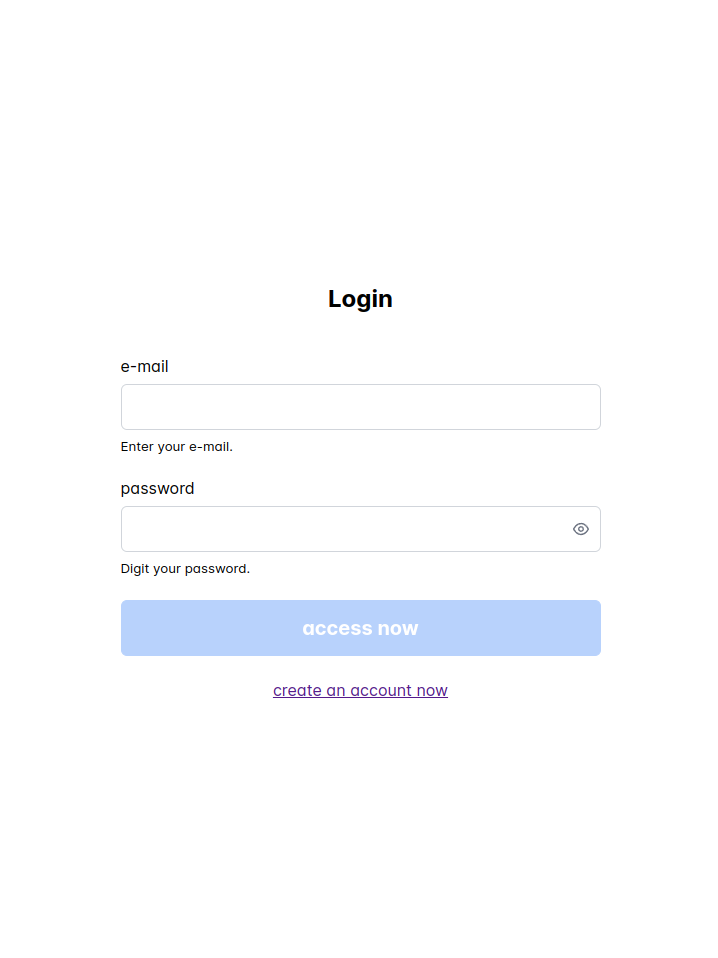
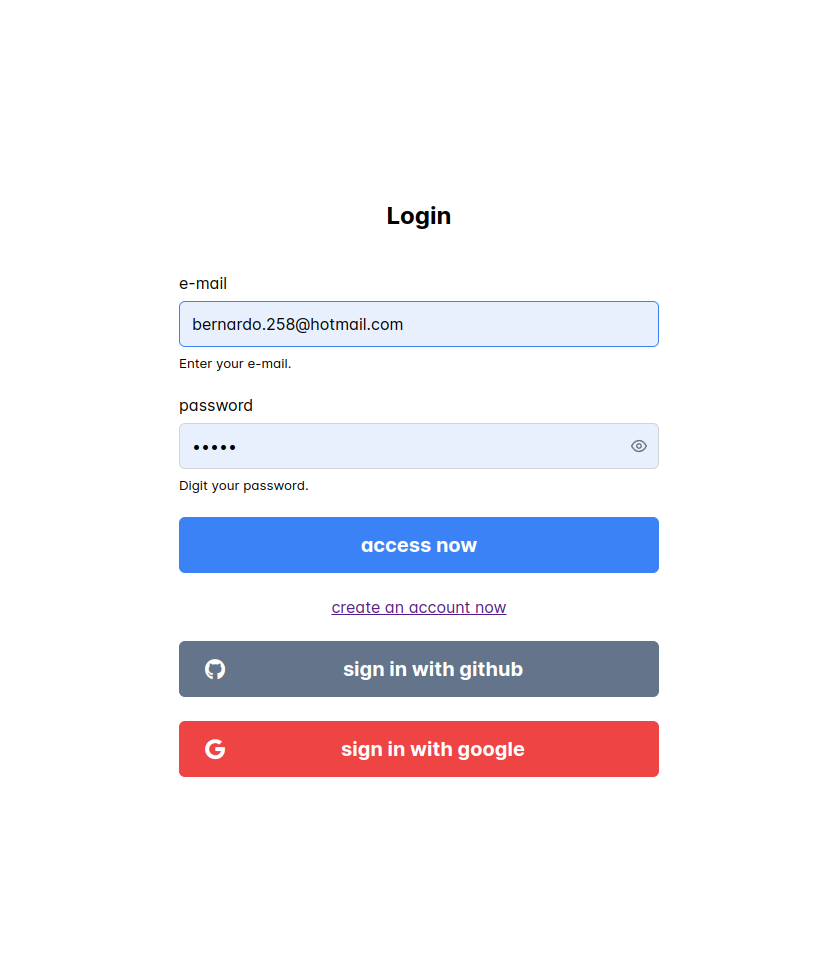
docs: atualizado documentação

diff --git a/README.md b/README.md
@@ -16,6 +16,26 @@ Aplicação foi contruída com o objetivo de construir as seguintes etapas:
 | ![Página de registro do usuário](/src/assets/image.png)                      | ![Página de acesso do usuário](/src/assets/image-1.png) |
 | ![Página interna quando o usuário acessa o sistema](/src/assets/image-2.png) |                                                         |
 
+### SSO (Single Sign-On)
+
+Foi implementado o login via SSO do Google e Github. Onde esse tipo de login utiliza as contas existentes nessas plataformas para realizar login nesta aplicação. O provedor (provider) fornece os dados do usuário, caso o login seja bem sucessedido pelo usuário.
+
+#### Github
+
+O provedor do Github precisa que um aplicativo do tipo OAuth seja criado em uma conta [Github OAuth](https://github.com/settings/applications/new). Para criar o aplicativo, precisa de informações de qual url de retorno da sua aplicação, quando o usuário loga no github, e precisar retornar para esta aplicação. Ao finalizar a criação do aplcativo OAuth será gerar as chaves públicas e privadas para consultar as APIs do Github. No retorno é fornecido parâmetro na url (code=DADDAD) que será necessário para ser enviado para o backend e ele realizar a consulta de informações no nome daquele usuário, além disso, essa consulta no backend pode ser gerado um access_token e refresh_token para o usuário que realizou o login. O papel do front-end é criar um url para o usuário ao clicar para logar via Github, no qual, será dito quais os escopos quer acesso, a url de retorno depois do login e o chave pública do aplicativo OAuth criado [Criação da URL](https://docs.github.com/pt/apps/oauth-apps/building-oauth-apps/authorizing-oauth-apps#1-request-a-users-github-identity).
+
+O Github tem disponível uma SDK para interagir com as APIs deles. Mas nesse exemplo, foi utilizado os endpoints brutos dos serviços deles.
+
+#### Google
+
+O provedor do Google precisa, por sua vez, de uma aplicativo no [Google Console](https://console.cloud.google.com/welcome/new) que exista ou seja criado do zero, depois da configuração da [Tela de Permissão OAuth](https://console.cloud.google.com/apis/credentials/consent) que terá como configuração informações: o escopos do usuário, email para contato e logo do aplicativo. Essa tela que o usuário verá quando realizar o login.
+
+Além disso, é necessário criar uma credencial para aplicativo **IDs do Cliente OAuth 2.0** e do tipo **Aplicativo Web**. Na tela de criação, é necessário passar as origens JavaScript autorizadas para o seu aplicativos fazerem os redirecionamentos para o usuário realizar o login, além disso, é preciso adicionar as urls de redirecionamentos autorizados que são as url permitidas para serem redirecionadas pelo google. Depois da criação da credencial, vão ser fornecidas as credencias para serem salvas no projeto.
+
+A biblioteca (SDK) utilizada para interagir com as APIs do Google é a [GoogleApis](https://www.npmjs.com/package/googleapis#oauth2-client)
+
+### Back-end
+
 Este projeto é necessário rodar com o backend projetado para essa aplicação front-end. [Back-end NodeJS](https://github.com/BernardoSemiOficial/backend-nodejs-access-token-authentication)
 
 Este projeto foi gerado com [Angular CLI](https://github.com/angular/angular-cli) versão 18.0.2.
